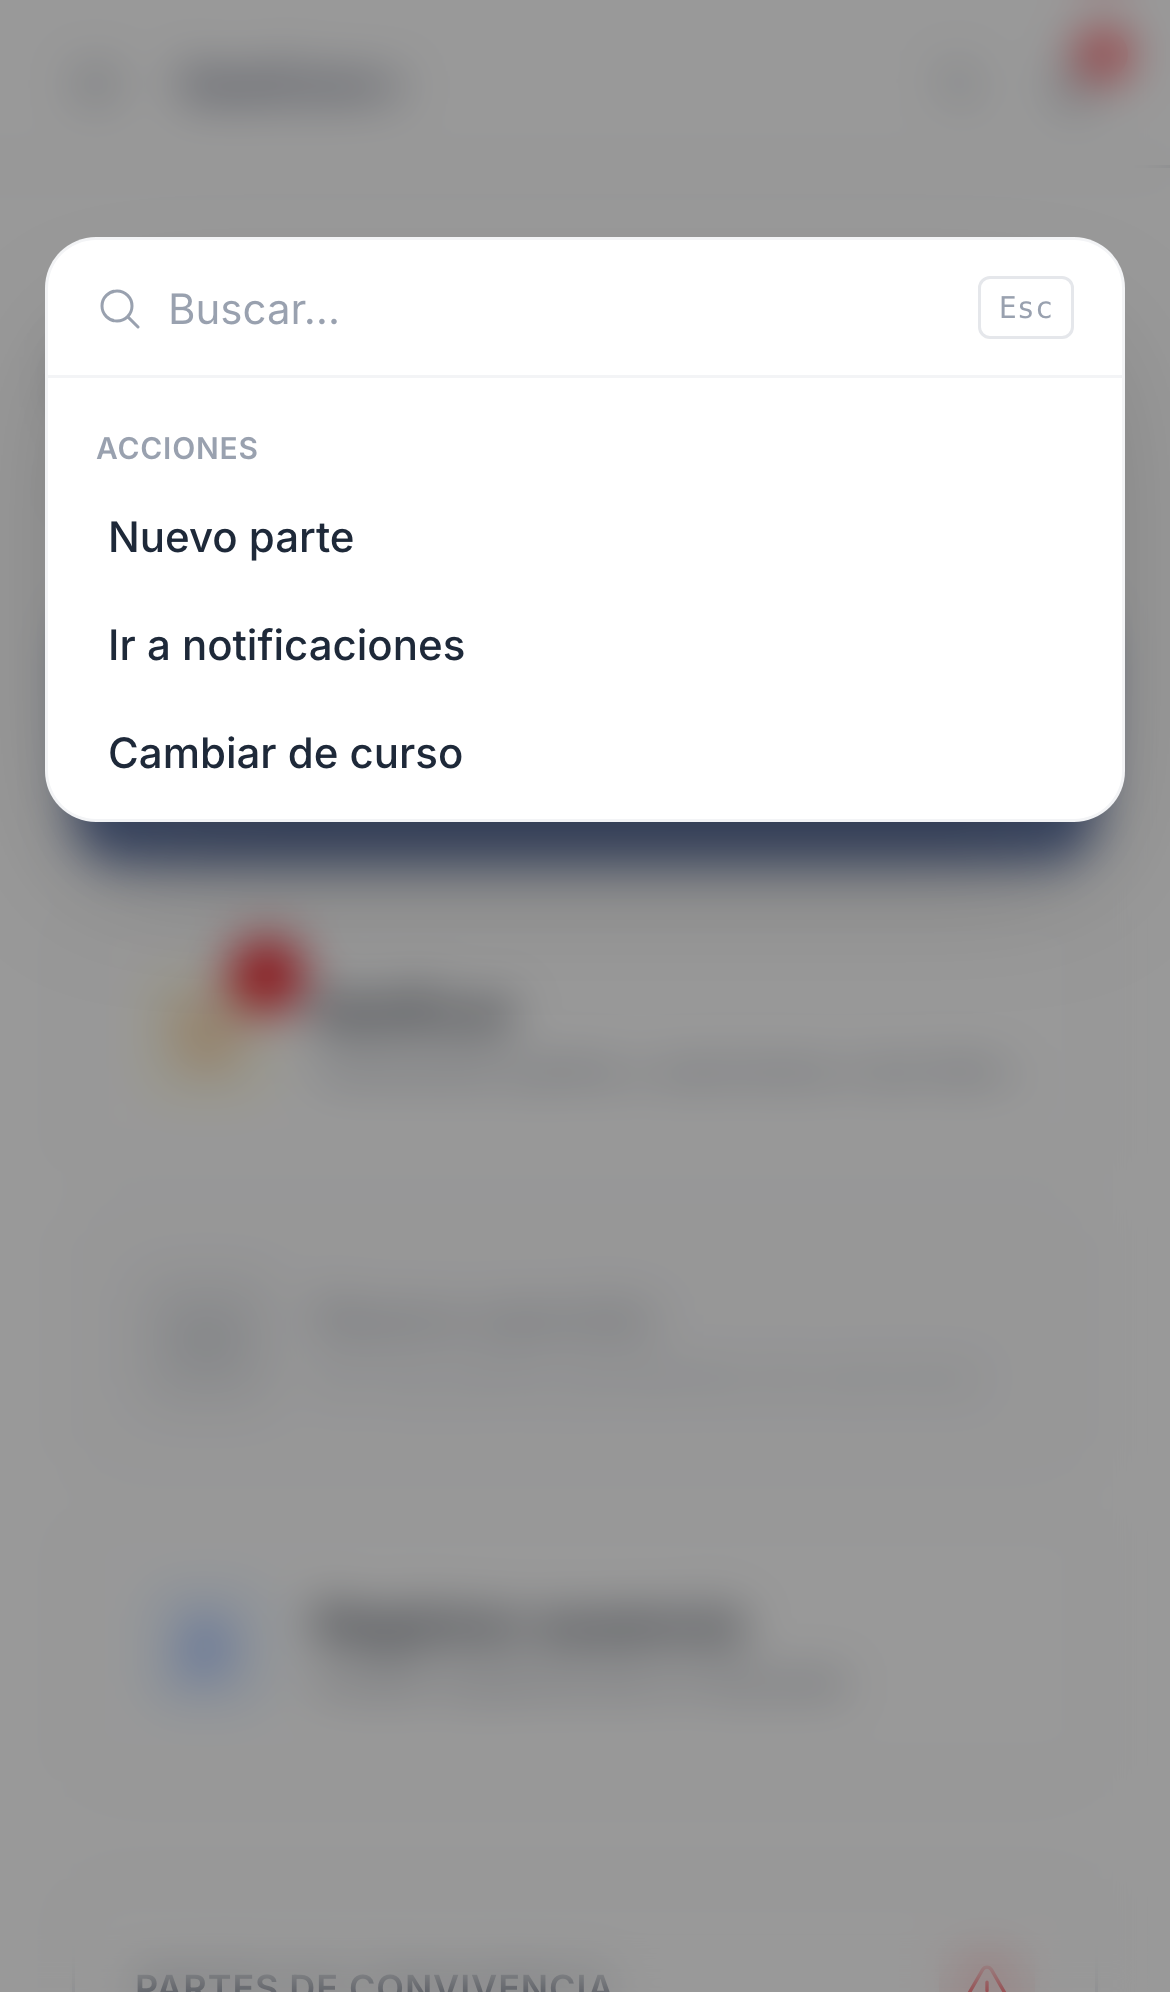
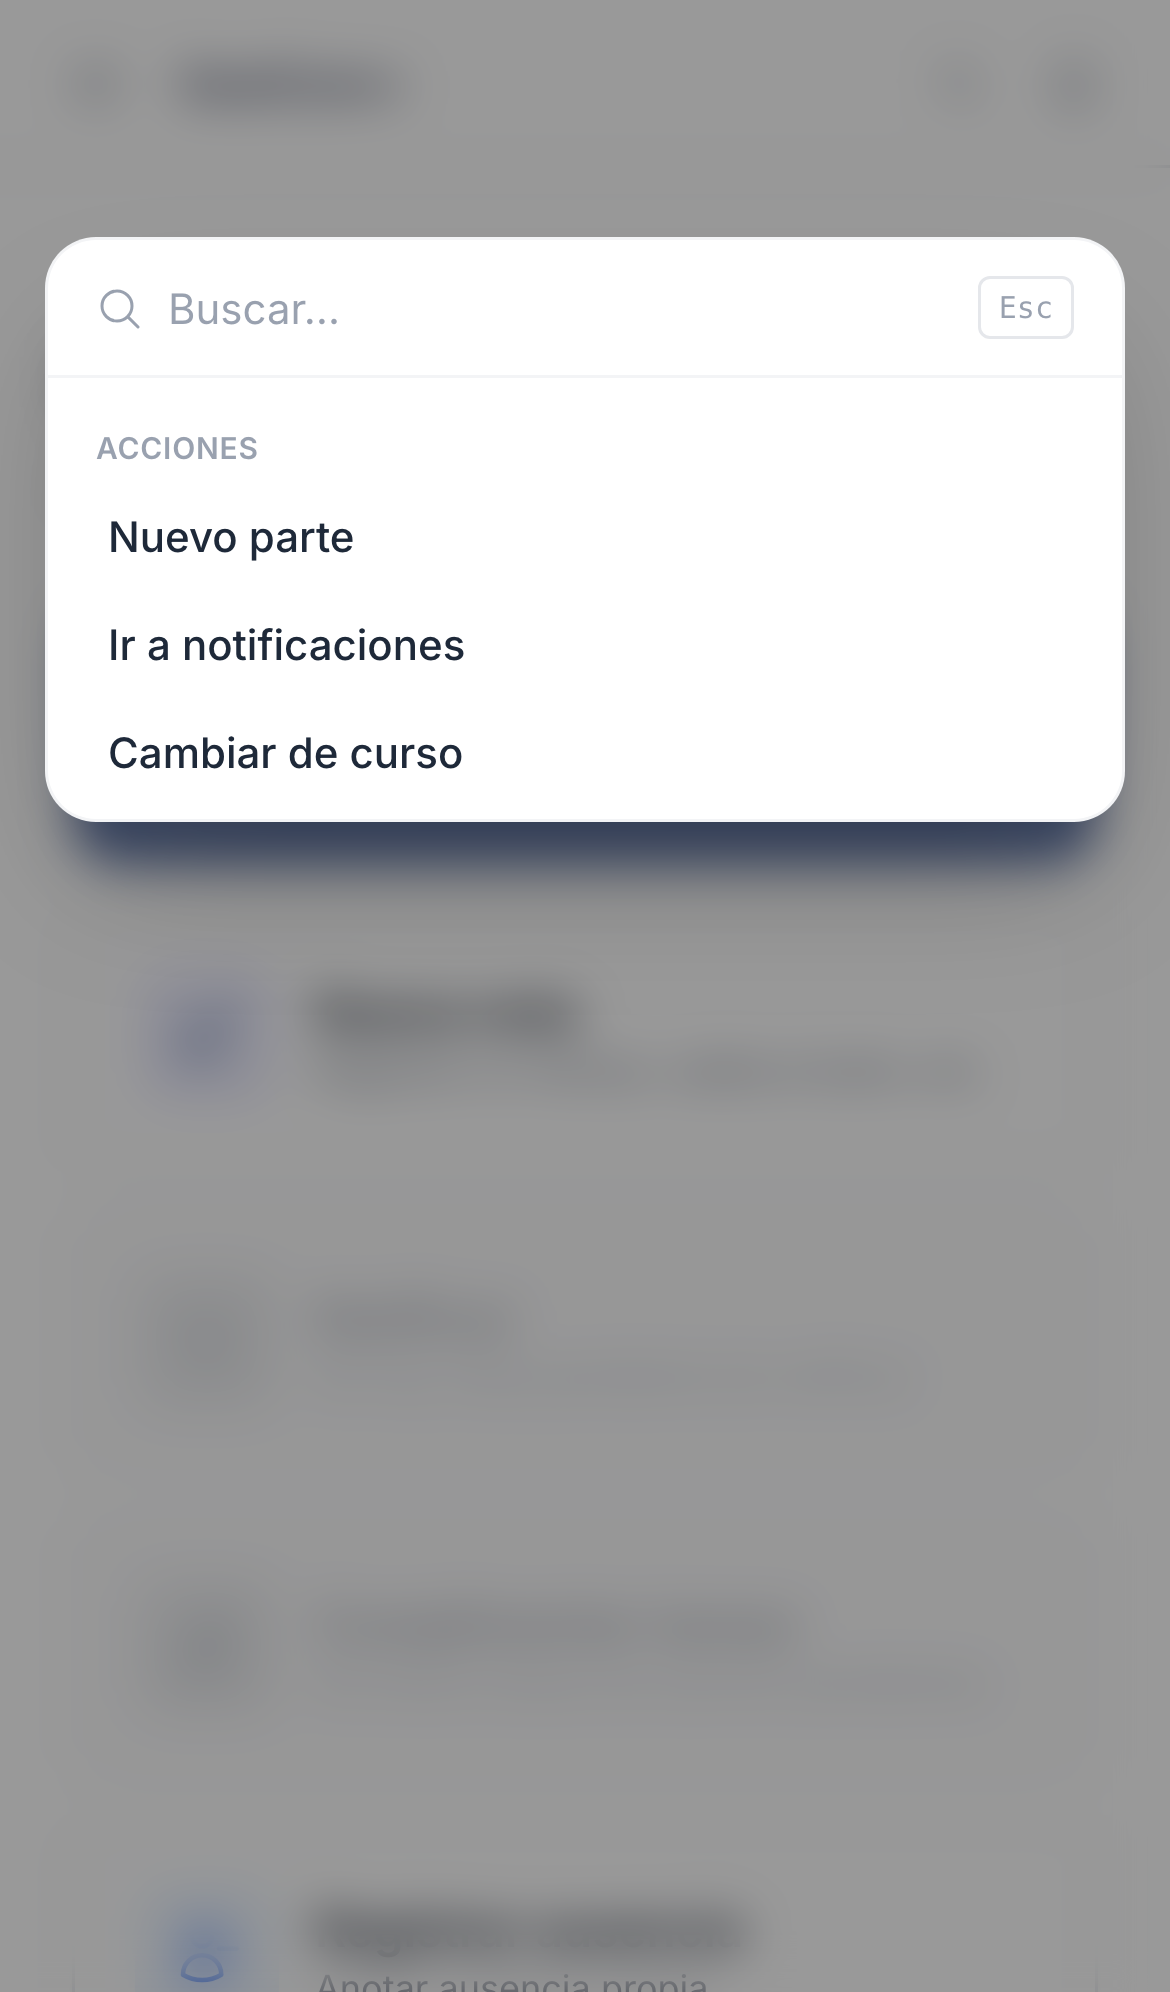
docs: documenta el botón Nueva nota, la búsqueda separada por alumnado, la ficha restringida y la campana de tareas pendientes
Actualiza el manual, la ficha rápida de búsqueda y la presentación, y
regenera las capturas afectadas (panel de inicio, búsqueda rápida,
búsqueda global y ficha del alumno).

diff --git a/docs/manual/03-el-trabajo-diario.md b/docs/manual/03-el-trabajo-diario.md
@@ -20,6 +20,8 @@ En la parte superior están los **accesos rápidos**: botones grandes pensados p
 por cada acción habitual, que solo aparecen para quien puede realizarlas:
 
 - **Nuevo parte** — todo el profesorado.
+- **Nueva nota** — todo el profesorado; para registrar un [aviso de comportamiento del día a
+  día](#notas) sin abrir un parte.
 - **Notificar** — con un contador en rojo si hay algo pendiente de comunicar; en gris y sin
   contador cuando no queda nada pendiente.
 - **Nueva sanción** — solo quien puede registrar sanciones.
@@ -163,7 +165,8 @@ la aplicación avisa de que conviene registrar también un parte.
 
 ![Formulario de nueva nota, vacío](img/notas/nueva-nota-vacio.png)
 
-1. Pulsa **Nueva nota** en la sección o desde la ficha del alumno, junto a **Nuevo parte**.
+1. Pulsa **Nueva nota** en la sección, en el acceso rápido del inicio o desde la ficha del
+   alumno, siempre junto a **Nuevo parte**.
 2. **Estudiante** — escribe el nombre o el NIE en el buscador; a diferencia de los partes, una
    nota es siempre para un único estudiante.
 3. **Tipo de nota** — elige uno de los tipos activos del centro. Los tipos que, de añadir esta
@@ -212,6 +215,11 @@ la cola de partes y sanciones cuya familia todavía no ha sido informada, e **Hi
 notificaciones**, con todas las comunicaciones registradas en el curso activo.
 
 ![Cola de notificaciones pendientes](img/notificaciones/notificaciones-pendientes.png)
+
+Los mismos partes y sanciones pendientes de notificar, junto con las [tareas de
+sanción](#tareas-de-sancion) propias todavía sin cumplimentar, aparecen también en la campana
+**Tareas pendientes** de la cabecera, ordenados por antigüedad. Cada elemento enlaza directamente
+a su pantalla de registro o de cumplimentación.
 
 Antes de las colas de partes y sanciones, la pestaña muestra los **estudiantes con partes
 pendientes de notificar** (solo los que el docente puede notificar), ordenados de más a menos
@@ -293,11 +301,15 @@ tutor/a del grupo**, o **ambos** (opción por defecto). Se configura en los ajus
 ## Ficha del estudiante
 
 La ficha del estudiante reúne en una sola pantalla toda la información de convivencia de un
-estudiante:
+estudiante. Su contenido depende de la relación del docente con ese estudiante:
 
 ![Ficha del estudiante con su historial de convivencia](img/alumnado/alumnado-ficha.png)
 
-- **Datos básicos** — nombre y grupo.
+- **Datos básicos** — nombre y grupo. Siempre visibles.
+- **Accesos directos** para registrar un nuevo parte o una nueva nota con el estudiante ya
+  seleccionado (y una nueva sanción, si se tienen permisos). Siempre visibles.
+- **Notas diarias** — el histórico y las ocurrencias por tipo (ver [Notas](#notas)). Siempre
+  visibles.
 - **Contadores** — partes registrados (indicando cuántos incluyen conductas graves y cuántos han
   prescrito) y sanciones vigentes hoy.
 - **Datos de contacto** — tutores legales, teléfonos y observaciones. Solo visibles para los
@@ -308,8 +320,11 @@ estudiante:
   curso académico distinto del activo y cada cambio se registra en el registro de actividad.
 - **Historial de convivencia** — los partes y sanciones del estudiante en orden cronológico, cada
   uno con su estado de notificación. Cada docente ve solo los que le permiten sus permisos.
-- **Accesos directos** para registrar un nuevo parte o una nueva sanción con el estudiante ya
-  seleccionado.
+
+Los dos últimos bloques (**Contadores** e **Historial de convivencia**) solo se muestran si el
+docente es administrador, tutor/a o imparte clase al estudiante, o si ha registrado él mismo algún
+parte o sanción suyo; para el resto del profesorado la ficha se reduce a los datos básicos, los
+accesos directos y las notas diarias.
 
 Se llega a la ficha desde el buscador global, los listados y detalles de partes y sanciones, y la
 lista *Alumnado con partes pendientes de sanción* del inicio.
@@ -525,7 +540,10 @@ agrupan por tipo y se filtran mientras se escribe, sin distinguir mayúsculas ni
 
 ![Paleta de búsqueda global abierta con resultados filtrados](img/buscar/buscar-global.png)
 
-- **Estudiantes** — abre la [ficha del estudiante](#ficha-del-estudiante) correspondiente.
+- **Estudiantes** — cada resultado muestra el grupo del estudiante y abre su
+  [ficha](#ficha-del-estudiante). Se muestran todos los del centro, separados entre **Tu
+  alumnado** (a quienes se imparte clase o se tutoriza) y **Otro alumnado**; sobre estos últimos
+  la ficha no muestra datos de contacto ni el historial de convivencia, solo las notas diarias.
 - **Docentes** — solo para administradores.
 - **Acciones** — accesos directos a **Nuevo parte**, **Ir a notificaciones** y **Cambiar de
   curso** (esta última requiere permisos de administración).

diff --git a/CHANGELOG.md b/CHANGELOG.md
@@ -5,7 +5,7 @@ All notable changes to this project will be documented in this file.
 The format is based on [Keep a Changelog](https://keepachangelog.com/en/1.1.0/),
 and this project adheres to [Semantic Versioning](https://semver.org/spec/v2.0.0.html).
 
-## [1.0.0] - 2026-07-31
+## [1.0.0] - 2026-08-02
 
 ### Fixed
 
@@ -25,7 +25,10 @@ and this project adheres to [Semantic Versioning](https://semver.org/spec/v2.0.0
   - Al registrar una nota nueva, los tipos se muestran como opciones y se resaltan en rojo aquellos que, de añadirse un nuevo aviso, alcanzarían el umbral; al elegir un tipo, se muestra sin recargar la página el historial de ese tipo para el estudiante seleccionado (fecha/hora, docente y observaciones, con las notas ignoradas atenuadas). Si un administrador registra la nota y no es docente del curso activo, el campo de docente se deja en blanco para forzar una selección válida, igual que en los partes. Tras guardar, la pantalla de resumen muestra un botón para registrar un parte si se ha alcanzado el umbral.
   - El listado de notas admite búsqueda, filtro por grupo (solo los que tienen avisos) y por tipo, y los botones **Mis notas** y, si se tutoriza algún grupo, **De mi tutoría**. La visibilidad sigue el mismo criterio que los partes: cada docente ve las suyas y las de los grupos que tutoriza; solo los administradores ven todas.
   - Un docente puede editar las observaciones o eliminar sus propias notas durante los 30 minutos posteriores al registro; los tutores del grupo del estudiante pueden marcar cualquier aviso como ignorado (no cuenta para el umbral); los administradores pueden modificar o eliminar cualquier nota sin límite de tiempo.
-  - La ficha del alumno muestra ahora, justo antes del historial de convivencia, un histórico paginado de notas diarias y, tras él, las ocurrencias acumuladas por tipo con un botón **Registrar parte** cuando se alcanza el umbral y, para tutores y administradores, **Ignorar notas actuales** para descartar de golpe todas las de un tipo. El botón **Nueva nota** aparece junto al de **Nuevo parte**.
+  - La ficha del alumno muestra ahora, justo antes del historial de convivencia, un histórico paginado de notas diarias y, tras él, las ocurrencias acumuladas por tipo con un botón **Registrar parte** cuando se alcanza el umbral y, para tutores y administradores, **Ignorar notas actuales** para descartar de golpe todas las de un tipo. El botón **Nueva nota** aparece junto al de **Nuevo parte**, tanto en la ficha del alumno como entre los accesos rápidos del panel de inicio.
+- La **búsqueda global** (⌘K/Ctrl+K) muestra ahora el grupo de cada estudiante encontrado, y separa los resultados entre **Tu alumnado** (a quienes se imparte clase o se tutoriza) y **Otro alumnado**: antes esta búsqueda solo devolvía el propio alumnado y ocultaba por completo al resto.
+- La **ficha del estudiante** es ahora accesible para cualquier docente del centro, no solo para quien lo tutoriza, le da clase o ha registrado algo suyo: quien no tiene ninguna de esas relaciones con el estudiante ve una versión reducida, sin contadores, datos de contacto ni historial de convivencia, con solo las notas diarias y los accesos directos para registrar un parte o una nota.
+- La campana **Tareas pendientes** de la cabecera muestra ahora también las [tareas de sanción](docs/manual/03-el-trabajo-diario.md#tareas-de-sancion) propias todavía sin cumplimentar, junto a los partes y sanciones pendientes de notificar que ya mostraba; cada una enlaza directamente a su formulario.
 - Nuevo script `dist/update-ubuntu.sh`, pensado para ejecutarse con `curl ... | sudo bash` igual que `install-ubuntu.sh`: compara la versión instalada (fichero `.version`) con la última publicada en GitHub Releases y, si hay una más reciente, para los servicios, descarga y extrae el paquete nuevo (conservando `data/` y `.env.local`) y los vuelve a arrancar. Si ya está actualizado, no hace nada y termina en `0`, así que es seguro invocarlo repetidamente desde un cron o un systemd timer. Admite `--force` para reinstalar aunque la versión publicada parezca igual (útil tras una re-release que mueve la misma etiqueta a otro commit). La [guía de despliegue continuo](docs/despliegue/despliegue-continuo.md) ahora reutiliza este script en vez de duplicar su lógica.
 
   El paquete se descarga primero a un fichero temporal (`mktemp`, propiedad de `root` con permisos `600`) y luego se extrae ejecutando `tar` como `gestconvplus` (para que los ficheros extraídos queden con el propietario correcto); sin `chmod 644` sobre ese temporal, `gestconvplus` no tenía permiso para leerlo y la extracción fallaba con «Permission denied». Se corrige haciendo el temporal legible antes de extraer.

diff --git a/docs/slides/gestconv-plus.md b/docs/slides/gestconv-plus.md
@@ -224,11 +224,13 @@ El parte pasa a **"Notificado"** y queda en el historial.
 
 ## Ficha del estudiante: qué ve un docente normal
 
-- Datos básicos del estudiante y su grupo.
-- Listado de **partes y sanciones** en los que aparece, con su estado.
-- Acceso directo para registrar un nuevo parte sobre ese mismo estudiante.
-- Un docente normal ve aquí **la misma información que en sus listados**: solo
-  lo relativo a los grupos donde imparte docencia.
+- Cualquier docente puede abrir la ficha de **cualquier estudiante del
+  centro**, no solo el suyo.
+- **Datos básicos**, accesos directos y **notas diarias**: siempre visibles.
+- **Contadores**, datos de contacto e **historial de convivencia** (partes y
+  sanciones): solo si le da clase, lo tutoriza o ha registrado algo suyo.
+- Para el resto del alumnado, la ficha se reduce a esos datos básicos y las
+  notas diarias.
 
 ---
 

diff --git a/docs/cheatsheets/busqueda-rapida.md b/docs/cheatsheets/busqueda-rapida.md
@@ -33,7 +33,7 @@ footer: 'v{{VERSION}} ({{PUB_DATE}}) · GestConv+'
 <div class="step">
   <span class="num">3</span>
   <div class="text">
-    <p>Escribe al menos 2 letras del nombre: aparecen estudiantes y, si eres del equipo directivo, también docentes.</p>
+    <p>Escribe al menos 2 letras: los estudiantes aparecen con su grupo, separados entre tu alumnado y el resto, y docentes si eres del equipo directivo.</p>
     <img src="img/busqueda-rapida-3.png" alt="Resultados de búsqueda de estudiantes y docentes">
   </div>
 </div>
